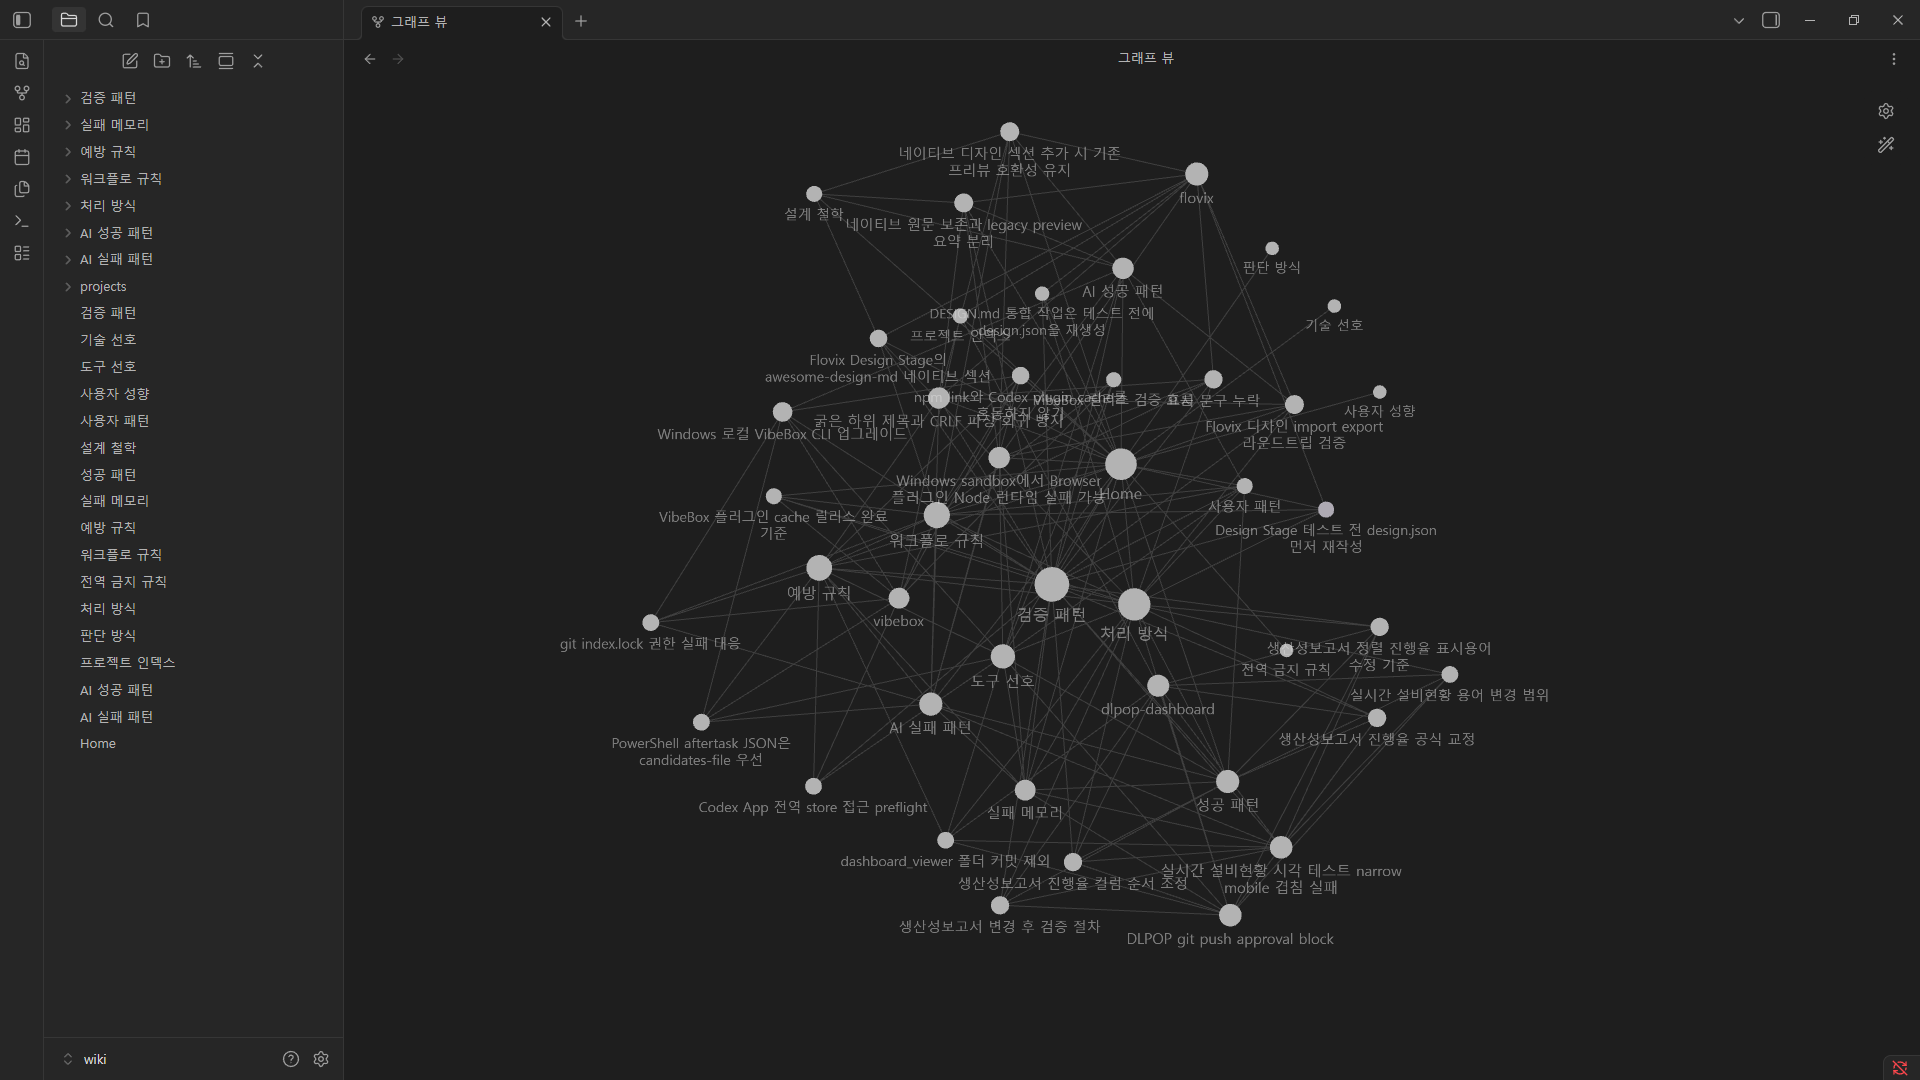
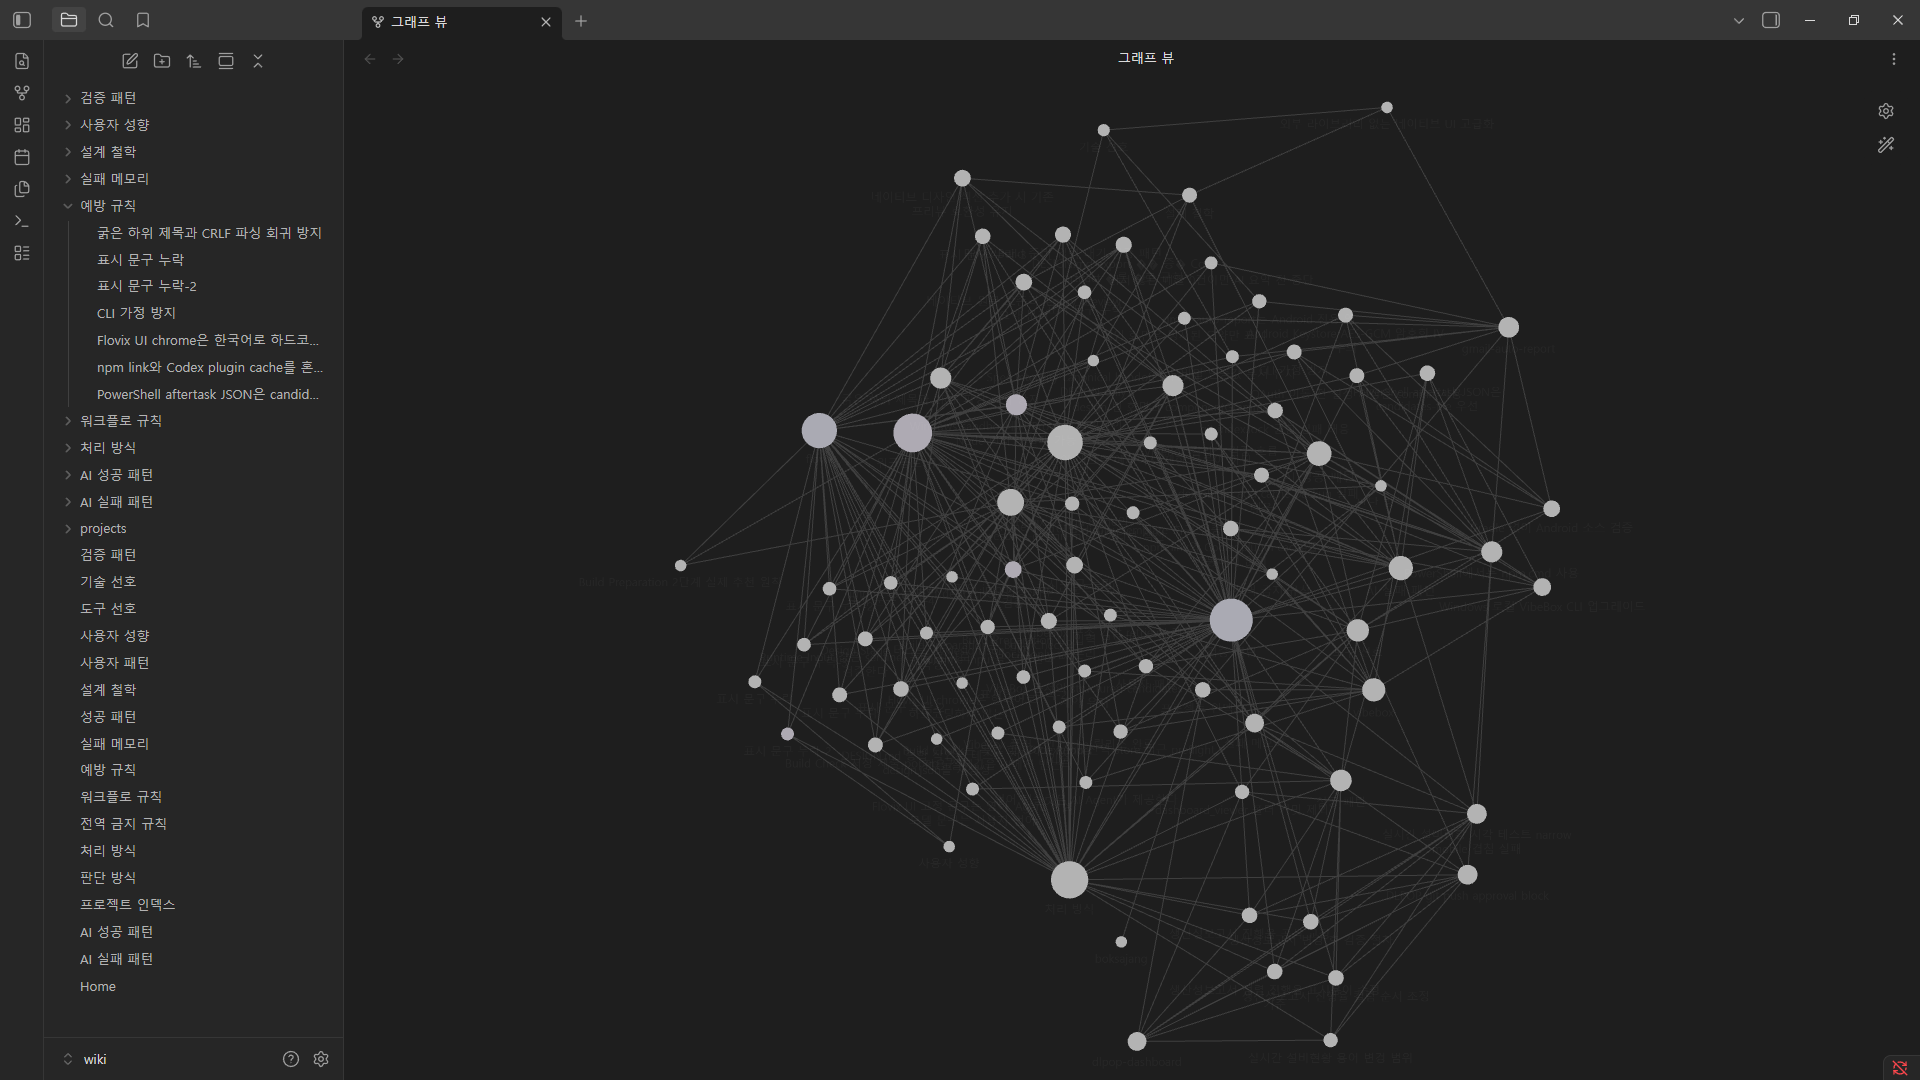
Prioritize user-centered VibeBox patterns

diff --git a/skills/vibebox/SKILL.md b/skills/vibebox/SKILL.md
@@ -25,6 +25,7 @@ Pending memory must not be treated as active memory.
 - If no reusable memory exists, submit `no_reusable_memory_candidate` with `noCandidateReason`.
 - If one candidate represents a complex request, include `whyOnlyOneCandidate`.
 - Wiki display fields must follow configured `memoryLanguage`; Core does not translate missing display text.
+- User-centered memory is first-priority semantic work for the agent. Personal preferences, recurring feedback, answer/reporting style, correction style, question style, collaboration habits, and repeated user patterns must be considered before technical workflow, validation, or prevention categories. The current explicit request still wins, but durable user-centered signals should not be buried only under project or process categories.
 
 Load references only when needed:
 
@@ -92,18 +93,26 @@ After meaningful coding, design, documentation, packaging, or review work:
    - `ai_successful_approach`
    - `task_context`
    - `discarded_detail`
-4. Consider pattern categories such as validation, response preference, process, design philosophy, decision, workflow, prevention, tooling, AI failure, and AI success.
-5. Include fields such as `memoryRole`, `type`, `modelClass`, `modelSubClass`, `scope`, `primaryCategory`, `relatedCategories`, `title`, `summary`, `rule`, `displayTitle`, `displaySummary`, `displayRule`, `displayLanguage`, `evidence`, `confidence`, `sourceType`, `relationCandidates`, and `replaces` when applicable.
-6. Write display fields in configured `memoryLanguage`; for a Korean configured tag, write Korean display text.
-7. Use `--candidates-file` or `--structured-candidates-file` for long JSON, especially on Windows shells.
-8. Run:
+4. First audit for user-centered candidates:
+   - personal preferences and durable success criteria: `type: "user_preference"` with `primaryCategory: "user_preferences"`
+   - answer/reporting/collaboration style: `type: "response_preference"` or `communication_pattern` with `primaryCategory: "user_patterns"`
+   - recurring corrections, repeated feedback, question style, and modification patterns: `correction_pattern`, `question_pattern`, or `communication_pattern` with `primaryCategory: "user_patterns"`
+   - repeated procedural instructions from the user, such as "analyze before modifying", "report before changing", "commit and push after validation", or recurring final-response requirements, are user patterns because they describe how the user wants the agent to work. Use `primaryCategory: "user_patterns"` and add `workflow_rules`, `process_patterns`, or `validation_patterns` as `relatedCategories` when useful.
+   - workflow, validation, or process behavior discovered by the agent or required only by a specific project is not automatically a user pattern. Keep those memories under technical categories unless the repeated durable signal is the user's personal working preference.
+   - if the same memory is both user-centered and technical, keep the user-centered primary category when the user behavior is the durable signal, and add the technical categories as `relatedCategories`.
+5. Then consider other pattern categories such as validation, process, design philosophy, decision, workflow, prevention, tooling, AI failure, and AI success.
+6. Do not mark `no_reusable_memory_candidate` until the user-centered audit above has been performed. Repeated user wording such as "always", "prefer", "do not", "next time", "again", corrections after dissatisfaction, and repeated final-answer requirements should normally produce a user-centered candidate unless it is clearly one-off.
+7. Include fields such as `memoryRole`, `type`, `modelClass`, `modelSubClass`, `scope`, `primaryCategory`, `relatedCategories`, `title`, `summary`, `rule`, `displayTitle`, `displaySummary`, `displayRule`, `displayLanguage`, `evidence`, `confidence`, `sourceType`, `relationCandidates`, and `replaces` when applicable.
+8. Write display fields in configured `memoryLanguage`; for a Korean configured tag, write Korean display text.
+9. Use `--candidates-file` or `--structured-candidates-file` for long JSON, especially on Windows shells.
+10. Run:
 
 ```bash
 vibebox.cmd aftertask --request "<request>" --summary "..." --candidates-file structured-candidates.json --technical-outcome success --user-acceptance unknown
 ```
 
-9. If aftertask write access is blocked, request approved global VibeBox store write access or report that capture, project registration, active memory, and wiki updates were not completed.
-10. If VibeBox warns that candidates are missing or `whyOnlyOneCandidate` is missing, rewrite the capture input and rerun when reusable memory should be stored.
+11. If aftertask write access is blocked, request approved global VibeBox store write access or report that capture, project registration, active memory, and wiki updates were not completed.
+12. If VibeBox warns that candidates are missing or `whyOnlyOneCandidate` is missing, rewrite the capture input and rerun when reusable memory should be stored.
 
 `aftertask` is a global-store write/capture operation.
 

diff --git a/skills/vibebox/references/MEMORY_POLICY.md b/skills/vibebox/references/MEMORY_POLICY.md
@@ -92,6 +92,8 @@ vibebox reject <candidate-id>
 
 The agent should review meaningful work across:
 
+- user personal preferences and durable success criteria
+- recurring user feedback, answer/reporting style, correction style, question style, and collaboration habits
 - success criteria
 - validation patterns
 - response and reporting preferences
@@ -107,6 +109,23 @@ The agent should review meaningful work across:
 - discarded details
 
 Separate meanings should become separate candidates. If a complex request yields only one candidate, include `whyOnlyOneCandidate`. If nothing reusable exists, submit `no_reusable_memory_candidate` with `noCandidateReason`.
+
+## User-Centered Priority
+
+User-centered memory has first priority in semantic extraction. Before routing a candidate to workflow, validation, process, prevention, project, or technical categories, the agent must decide whether the durable signal is really about the user.
+
+Use these canonical categories:
+
+- `primaryCategory: "user_preferences"` for personal preferences, durable success criteria, and stable likes/dislikes.
+- `primaryCategory: "user_patterns"` for recurring feedback, answer/reporting style, communication style, correction patterns, question patterns, collaboration habits, repeated modification patterns, and repeated procedural instructions from the user about how the agent should work.
+
+Repeated procedural instructions from the user, such as "analyze before modifying", "report before changing", "commit and push after validation", or recurring final-answer requirements, are user patterns because they describe how the user wants the agent to work. Use `primaryCategory: "user_patterns"` and add technical categories such as `validation_patterns`, `workflow_rules`, `process_patterns`, or `prevention_rules` as `relatedCategories`.
+
+Workflow, validation, or process behavior discovered by the agent or required only by a specific project is not automatically a user pattern. Keep those memories under technical categories unless the repeated durable signal is the user's personal working preference.
+
+When a user-centered signal also affects implementation, validation, or workflow, keep the user-centered category as primary if the repeated user behavior is the durable lesson. Add technical categories as `relatedCategories` instead of burying the memory outside the user-centered Wiki.
+
+Do not submit `no_reusable_memory_candidate` until this user-centered audit has been performed. Repeated wording such as "always", "prefer", "do not", "next time", "again", direct corrections, dissatisfaction, and recurring final-answer requirements should normally create a user-centered candidate unless the signal is clearly one-off.
 
 ## User Feedback
 

diff --git a/skills/vibebox/references/WORKFLOW.md b/skills/vibebox/references/WORKFLOW.md
@@ -87,6 +87,8 @@ When active memory should be created, `task-result.txt` must include `User reque
 
 Before capture, scan the request and outcome for:
 
+- user personal preferences, durable success criteria, and stable likes/dislikes
+- recurring feedback, answer/reporting style, correction style, question style, collaboration habits, repeated modification patterns, and repeated procedural instructions from the user
 - `user_success_criteria`
 - `ai_failure_memory`
 - `ai_successful_approach`
@@ -97,6 +99,10 @@ Before capture, scan the request and outcome for:
 - process, design, and decision patterns
 - workflow and prevention rules
 - tooling and technology preferences
+
+User-centered signals are first-priority candidates. Use `primaryCategory: "user_preferences"` for personal preferences and durable success criteria. Use `primaryCategory: "user_patterns"` for recurring feedback, answer/reporting style, communication style, correction patterns, question patterns, collaboration habits, repeated modification patterns, and repeated procedural instructions from the user. If the same memory is also technical, put technical categories in `relatedCategories` instead of losing the user-centered primary category.
+
+Do not confuse agent-discovered workflow with user pattern memory. A workflow, validation, or process behavior belongs in a technical category unless the repeated durable signal is the user's preferred way for the agent to work.
 
 Do not collapse separate validation, reporting, preservation, and failure-avoidance meanings into one summary-shaped candidate. If only one candidate is truly enough, include `whyOnlyOneCandidate`. If no reusable memory exists, include `no_reusable_memory_candidate` with `noCandidateReason`.
 

diff --git a/docs/MEMORY_MODEL.md b/docs/MEMORY_MODEL.md
@@ -45,6 +45,14 @@ Structured candidates use one of these roles:
 
 The normal pretask/context output prioritizes the first three roles as guidance lanes.
 
+## User-Centered Extraction Priority
+
+User-centered memory is first-priority semantic work for the AI agent. Personal preferences, durable success criteria, recurring feedback, answer/reporting style, correction style, question style, collaboration habits, repeated modification patterns, and repeated procedural instructions from the user should be reviewed before technical workflow, validation, process, or prevention categories.
+
+Use `primaryCategory: "user_preferences"` for personal preferences and durable success criteria. Use `primaryCategory: "user_patterns"` for recurring feedback, answer/reporting style, communication style, correction patterns, question patterns, collaboration habits, repeated modification patterns, and repeated procedural instructions from the user. If the same memory also affects implementation, validation, or workflow, keep the user-centered category primary when the durable signal is about the user, and add the technical categories as `relatedCategories`.
+
+Workflow, validation, or process behavior discovered by the agent or required only by a specific project is not automatically a user pattern. It becomes a user pattern when the repeated durable lesson is the user's preferred way for the agent to work.
+
 ## Memory Types
 
 Active memory can use these types:
